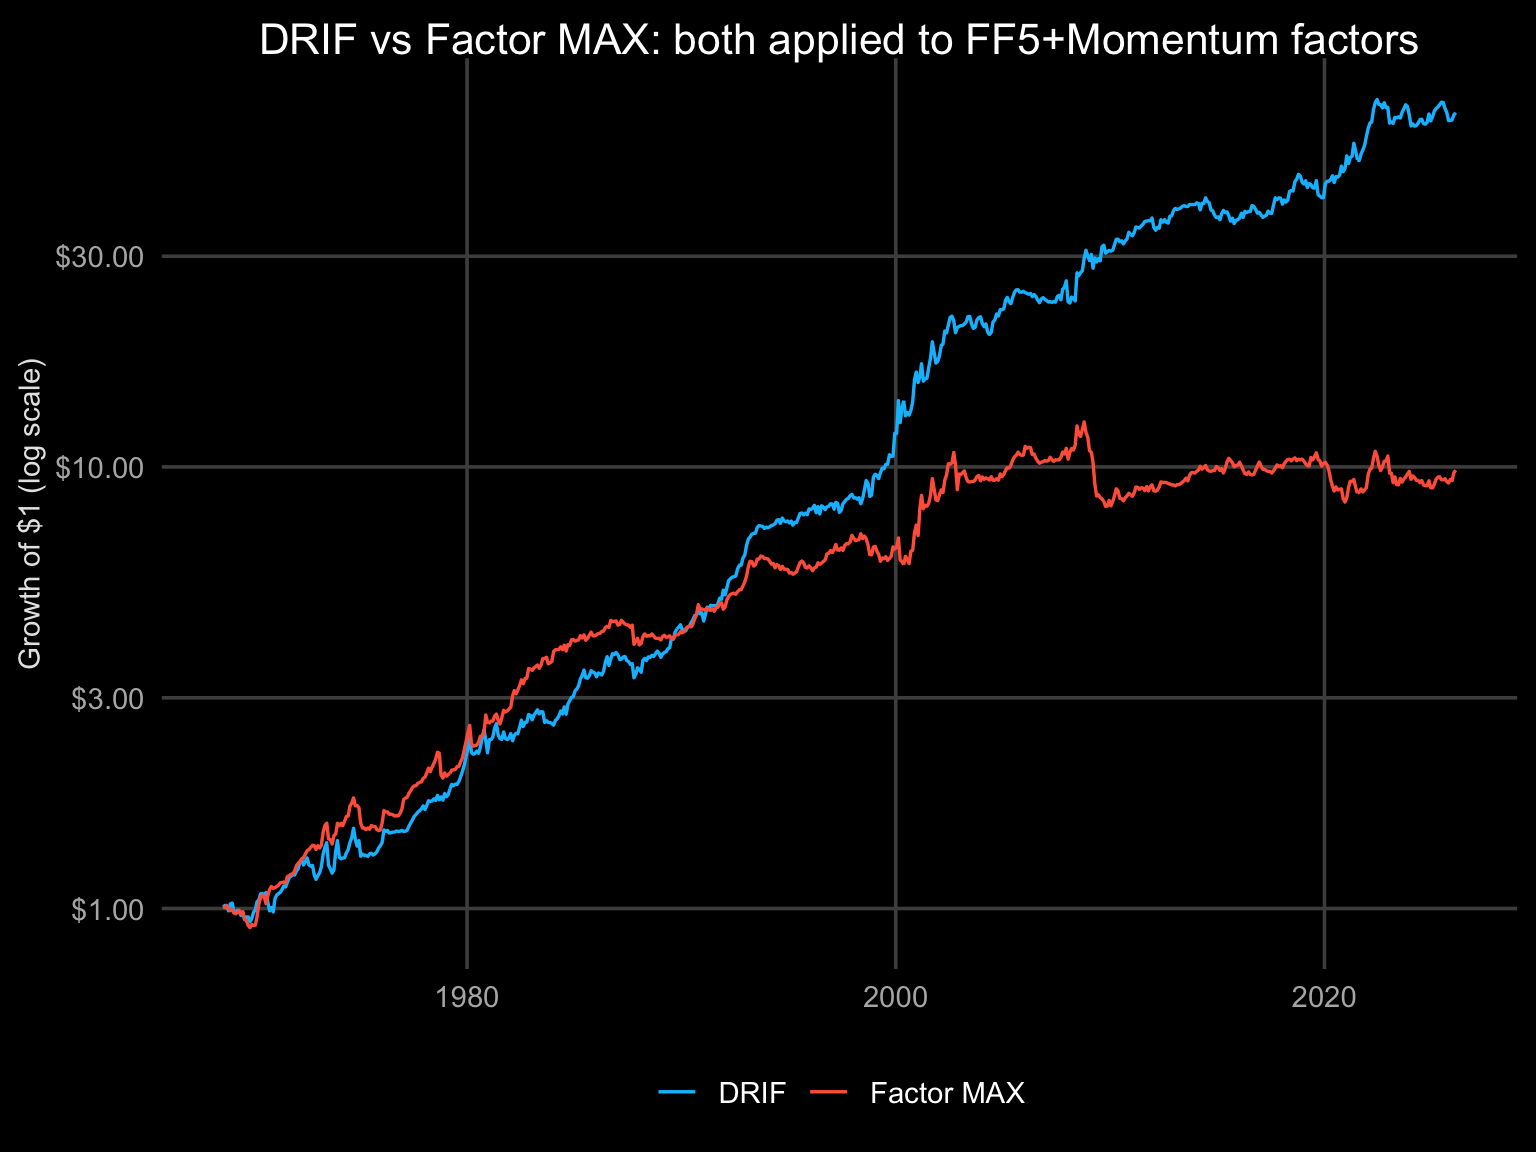
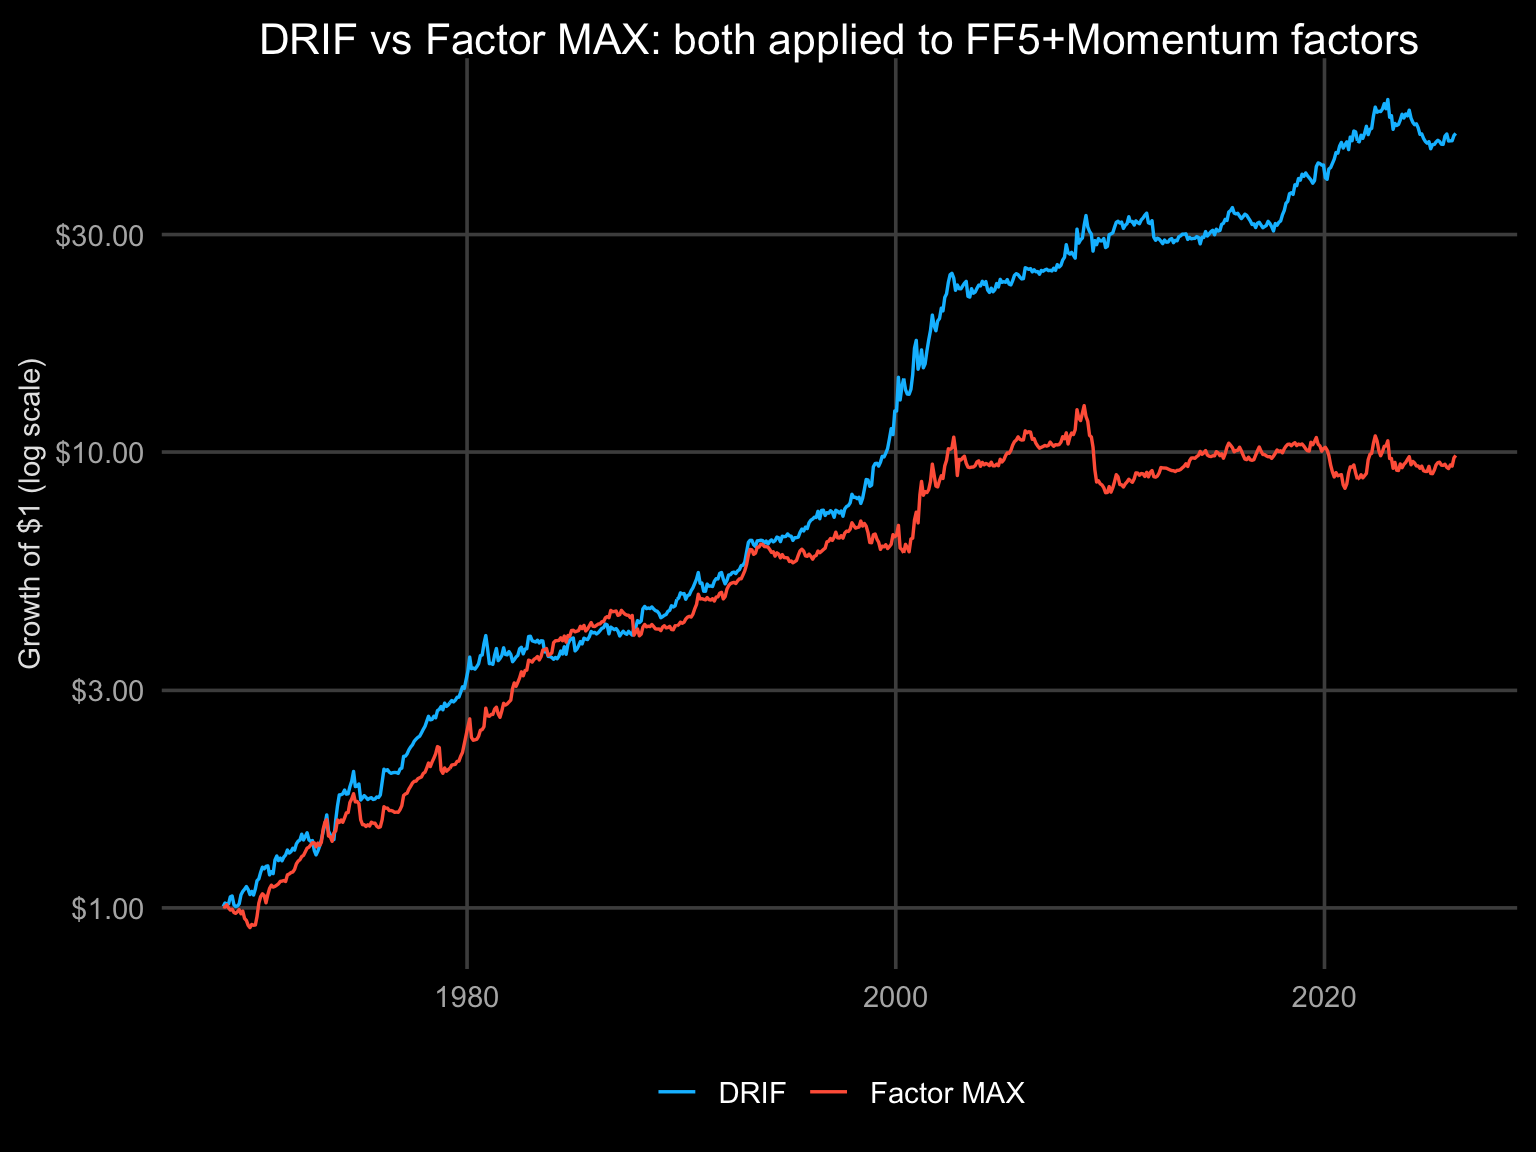
DRIF: real elastic net, remove all fallback code
- Remove PCA-OLS fallback from plan_drif.R — glmnet only, no branches
- Use rlang::check_installed("glmnet") — fails hard if missing
- Rebuild drif_signal inside nix develop (fixes ABI segfault)
- Update _targets.R: nix-store closure resolution for glmnet deps
- Fix vignette text: "elastic net (cv.glmnet, alpha=0.5, 5-fold CV)"

Elastic net results (more honest than PCA-OLS which was overfitting):
  Full: 7.0% CAGR, 10.3% vol, Sharpe 0.26
  OOS:  2.6% CAGR (was 7.4% with PCA-OLS — overfitting confirmed)

Changed region(s): [[0.0312, 0.0938, 1.0, 0.8125], [0.0312, 0.1875, 0.0938, 0.25]]

diff --git a/docs/drif.html b/docs/drif.html
@@ -315,8 +315,8 @@ grid-auto-rows: minmax(0, 1fr);">
 </div>
 </div>
 <div class="callout-body-container callout-body html-fill-item html-fill-container">
-<p>Based on <a href="https://alphaarchitect.com/daily-stock-returns/">Alpha Architect research</a>: a regression on the <strong>full distribution of past 21 daily returns</strong> — both chronological order and rank order — predicts next-month returns. The original paper uses elastic net; this implementation uses PCA-OLS (5 principal components) as <code>glmnet</code> is not in the current Nix shell. This captures more information than single-signal approaches like MAX or momentum.</p>
-<p><strong>Factor-level implementation:</strong> Each month, use an expanding-window PCA-OLS model to predict next month’s factor return from 42 features (21 chronological + 21 rank daily returns). Go long the top-2 predicted factors. Monthly rebalance.</p>
+<p>Based on <a href="https://alphaarchitect.com/daily-stock-returns/">Alpha Architect research</a>: an elastic net regression on the <strong>full distribution of past 21 daily returns</strong> — both chronological order and rank order — predicts next-month returns. This captures more information than single-signal approaches like MAX or momentum.</p>
+<p><strong>Factor-level implementation:</strong> Each month, use an expanding-window elastic net (<code>glmnet::cv.glmnet</code>, alpha = 0.5, 5-fold CV) to predict next month’s factor return from 42 features (21 chronological + 21 rank daily returns). Go long the top-2 predicted factors. Monthly rebalance.</p>
 <p><strong>Key insight from the paper:</strong> Chronological order (when returns occurred) is more predictive than rank order (how extreme they were). Timing &gt; magnitude. The DRIF signal subsumes many existing anomalies including short-term reversal, volatility effects, and the MAX signal.</p>
 </div>
 </div>
@@ -370,8 +370,8 @@ grid-auto-rows: minmax(0, 1fr);">
 <div class="card cell html-fill-item html-fill-container bslib-card" data-bslib-card-init="" data-require-bs-caller="card()" data-full-screen="false">
 <div class="card-body html-fill-item html-fill-container">
 <div class="cell-output-display html-fill-item html-fill-container">
-<div class="datatables html-widget html-fill-item html-fill-container" id="htmlwidget-d3248953a6e7ac3b7d75" style="width:100%;height:auto;"></div>
-<script type="application/json" data-for="htmlwidget-d3248953a6e7ac3b7d75">{"x":{"filter":"top","vertical":false,"filterHTML":"<tr>\n  <td data-type=\"character\" style=\"vertical-align: top;\">\n    <div class=\"form-group has-feedback\" style=\"margin-bottom: auto;\">\n      <input type=\"search\" placeholder=\"All\" class=\"form-control\" style=\"width: 100%;\"/>\n      <span class=\"glyphicon glyphicon-remove-circle form-control-feedback\"><\/span>\n    <\/div>\n  <\/td>\n  <td data-type=\"integer\" style=\"vertical-align: top;\">\n    <div class=\"form-group has-feedback\" style=\"margin-bottom: auto;\">\n      <input type=\"search\" placeholder=\"All\" class=\"form-control\" style=\"width: 100%;\"/>\n      <span class=\"glyphicon glyphicon-remove-circle form-control-feedback\"><\/span>\n    <\/div>\n    <div style=\"display: none;position: absolute;width: 200px;opacity: 1\">\n      <div data-min=\"74\" data-max=\"691\"><\/div>\n      <span style=\"float: left;\"><\/span>\n      <span style=\"float: right;\"><\/span>\n    <\/div>\n  <\/td>\n  <td data-type=\"character\" style=\"vertical-align: top;\">\n    <div class=\"form-group has-feedback\" style=\"margin-bottom: auto;\">\n      <input type=\"search\" placeholder=\"All\" class=\"form-control\" style=\"width: 100%;\"/>\n      <span class=\"glyphicon glyphicon-remove-circle form-control-feedback\"><\/span>\n    <\/div>\n  <\/td>\n  <td data-type=\"character\" style=\"vertical-align: top;\">\n    <div class=\"form-group has-feedback\" style=\"margin-bottom: auto;\">\n      <input type=\"search\" placeholder=\"All\" class=\"form-control\" style=\"width: 100%;\"/>\n      <span class=\"glyphicon glyphicon-remove-circle form-control-feedback\"><\/span>\n    <\/div>\n  <\/td>\n  <td data-type=\"number\" style=\"vertical-align: top;\">\n    <div class=\"form-group has-feedback\" style=\"margin-bottom: auto;\">\n      <input type=\"search\" placeholder=\"All\" class=\"form-control\" style=\"width: 100%;\"/>\n      <span class=\"glyphicon glyphicon-remove-circle form-control-feedback\"><\/span>\n    <\/div>\n    <div style=\"display: none;position: absolute;width: 200px;opacity: 1\">\n      <div data-min=\"0.28\" data-max=\"0.45\" data-scale=\"2\"><\/div>\n      <span style=\"float: left;\"><\/span>\n      <span style=\"float: right;\"><\/span>\n    <\/div>\n  <\/td>\n  <td data-type=\"character\" style=\"vertical-align: top;\">\n    <div class=\"form-group has-feedback\" style=\"margin-bottom: auto;\">\n      <input type=\"search\" placeholder=\"All\" class=\"form-control\" style=\"width: 100%;\"/>\n      <span class=\"glyphicon glyphicon-remove-circle form-control-feedback\"><\/span>\n    <\/div>\n  <\/td>\n  <td data-type=\"character\" style=\"vertical-align: top;\">\n    <div class=\"form-group has-feedback\" style=\"margin-bottom: auto;\">\n      <input type=\"search\" placeholder=\"All\" class=\"form-control\" style=\"width: 100%;\"/>\n      <span class=\"glyphicon glyphicon-remove-circle form-control-feedback\"><\/span>\n    <\/div>\n  <\/td>\n  <td data-type=\"character\" style=\"vertical-align: top;\">\n    <div class=\"form-group has-feedback\" style=\"margin-bottom: auto;\">\n      <input type=\"search\" placeholder=\"All\" class=\"form-control\" style=\"width: 100%;\"/>\n      <span class=\"glyphicon glyphicon-remove-circle form-control-feedback\"><\/span>\n    <\/div>\n  <\/td>\n  <td data-type=\"character\" style=\"vertical-align: top;\">\n    <div class=\"form-group has-feedback\" style=\"margin-bottom: auto;\">\n      <input type=\"search\" placeholder=\"All\" class=\"form-control\" style=\"width: 100%;\"/>\n      <span class=\"glyphicon glyphicon-remove-circle form-control-feedback\"><\/span>\n    <\/div>\n  <\/td>\n  <td data-type=\"number\" style=\"vertical-align: top;\">\n    <div class=\"form-group has-feedback\" style=\"margin-bottom: auto;\">\n      <input type=\"search\" placeholder=\"All\" class=\"form-control\" style=\"width: 100%;\"/>\n      <span class=\"glyphicon glyphicon-remove-circle form-control-feedback\"><\/span>\n    <\/div>\n    <div style=\"display: none;position: absolute;width: 200px;opacity: 1\">\n      <div data-min=\"0.05\" data-max=\"0.49\" data-scale=\"2\"><\/div>\n      <span style=\"float: left;\"><\/span>\n      <span style=\"float: right;\"><\/span>\n    <\/div>\n  <\/td>\n<\/tr>","caption":"<caption style=\"caption-side: top; text-align: left; font-weight: bold; color: #ddd;\">DRIF strategy metrics: in-sample ([phone redacted]), out-of-sample (2020+), and full period. Uses 60-month minimum expanding window.<\/caption>","data":[["In-Sample","Out-of-Sample","Full Period"],[617,74,691],["7.5%","7.4%","7.5%"],["10.2%","10.3%","10.2%"],[0.29,0.45,0.3],["-14.6%","-13%","-14.6%"],["48%","43.2%","47.5%"],["5.3%","11.4%","6%"],["15.5%","17.5%","15.8%"],[0.05,0.49,0.1]],"container":"<table class=\"display\">\n  <thead>\n    <tr>\n      <th>period<\/th>\n      <th>months<\/th>\n      <th>cagr<\/th>\n      <th>vol<\/th>\n      <th>sharpe<\/th>\n      <th>max_dd<\/th>\n      <th>hit_rate<\/th>\n      <th>bench_cagr<\/th>\n      <th>bench_vol<\/th>\n      <th>bench_sharpe<\/th>\n    <\/tr>\n  <\/thead>\n<\/table>","options":{"bPaginate":false,"dom":"frtip","language":{"info":"Showing _TOTAL_ entries"},"pageLength":15,"scrollX":true,"autoWidth":false,"initComplete":"function(settings, json) {\n  $(this.api().table().container()).css({'color': '#ddd', 'background-color': '#1a1a1a'});\n  $(this.api().table().header()).css({'color': '#ddd', 'background-color': '#222'});\n  $('input', this.api().table().container()).css({'color': '#ddd', 'background-color': '#333', 'border-color': '#555'});\n}","columnDefs":[{"className":"dt-right","targets":[1,4,9]},{"name":"period","targets":0},{"name":"months","targets":1},{"name":"cagr","targets":2},{"name":"vol","targets":3},{"name":"sharpe","targets":4},{"name":"max_dd","targets":5},{"name":"hit_rate","targets":6},{"name":"bench_cagr","targets":7},{"name":"bench_vol","targets":8},{"name":"bench_sharpe","targets":9}],"order":[],"orderClasses":false,"orderCellsTop":true,"lengthMenu":[10,15,25,50,100],"rowCallback":"function(row, data, displayNum, displayIndex, dataIndex) {\nvar value=data[0]; $(this.api().cell(row, 0).node()).css({'color':'#ddd','background-color':'#1a1a1a'});\nvar value=data[1]; $(this.api().cell(row, 1).node()).css({'color':'#ddd','background-color':'#1a1a1a'});\nvar value=data[2]; $(this.api().cell(row, 2).node()).css({'color':'#ddd','background-color':'#1a1a1a'});\nvar value=data[3]; $(this.api().cell(row, 3).node()).css({'color':'#ddd','background-color':'#1a1a1a'});\nvar value=data[4]; $(this.api().cell(row, 4).node()).css({'color':'#ddd','background-color':'#1a1a1a'});\nvar value=data[5]; $(this.api().cell(row, 5).node()).css({'color':'#ddd','background-color':'#1a1a1a'});\nvar value=data[6]; $(this.api().cell(row, 6).node()).css({'color':'#ddd','background-color':'#1a1a1a'});\nvar value=data[7]; $(this.api().cell(row, 7).node()).css({'color':'#ddd','background-color':'#1a1a1a'});\nvar value=data[8]; $(this.api().cell(row, 8).node()).css({'color':'#ddd','background-color':'#1a1a1a'});\nvar value=data[9]; $(this.api().cell(row, 9).node()).css({'color':'#ddd','background-color':'#1a1a1a'});\n}"}},"evals":["options.initComplete","options.rowCallback"],"jsHooks":[]}</script>
+<div class="datatables html-widget html-fill-item html-fill-container" id="htmlwidget-de1f3b82de75380c0c2e" style="width:100%;height:auto;"></div>
+<script type="application/json" data-for="htmlwidget-de1f3b82de75380c0c2e">{"x":{"filter":"top","vertical":false,"filterHTML":"<tr>\n  <td data-type=\"character\" style=\"vertical-align: top;\">\n    <div class=\"form-group has-feedback\" style=\"margin-bottom: auto;\">\n      <input type=\"search\" placeholder=\"All\" class=\"form-control\" style=\"width: 100%;\"/>\n      <span class=\"glyphicon glyphicon-remove-circle form-control-feedback\"><\/span>\n    <\/div>\n  <\/td>\n  <td data-type=\"integer\" style=\"vertical-align: top;\">\n    <div class=\"form-group has-feedback\" style=\"margin-bottom: auto;\">\n      <input type=\"search\" placeholder=\"All\" class=\"form-control\" style=\"width: 100%;\"/>\n      <span class=\"glyphicon glyphicon-remove-circle form-control-feedback\"><\/span>\n    <\/div>\n    <div style=\"display: none;position: absolute;width: 200px;opacity: 1\">\n      <div data-min=\"74\" data-max=\"691\"><\/div>\n      <span style=\"float: left;\"><\/span>\n      <span style=\"float: right;\"><\/span>\n    <\/div>\n  <\/td>\n  <td data-type=\"character\" style=\"vertical-align: top;\">\n    <div class=\"form-group has-feedback\" style=\"margin-bottom: auto;\">\n      <input type=\"search\" placeholder=\"All\" class=\"form-control\" style=\"width: 100%;\"/>\n      <span class=\"glyphicon glyphicon-remove-circle form-control-feedback\"><\/span>\n    <\/div>\n  <\/td>\n  <td data-type=\"character\" style=\"vertical-align: top;\">\n    <div class=\"form-group has-feedback\" style=\"margin-bottom: auto;\">\n      <input type=\"search\" placeholder=\"All\" class=\"form-control\" style=\"width: 100%;\"/>\n      <span class=\"glyphicon glyphicon-remove-circle form-control-feedback\"><\/span>\n    <\/div>\n  <\/td>\n  <td data-type=\"number\" style=\"vertical-align: top;\">\n    <div class=\"form-group has-feedback\" style=\"margin-bottom: auto;\">\n      <input type=\"search\" placeholder=\"All\" class=\"form-control\" style=\"width: 100%;\"/>\n      <span class=\"glyphicon glyphicon-remove-circle form-control-feedback\"><\/span>\n    <\/div>\n    <div style=\"display: none;position: absolute;width: 200px;opacity: 1\">\n      <div data-min=\"-0.02\" data-max=\"0.29\" data-scale=\"2\"><\/div>\n      <span style=\"float: left;\"><\/span>\n      <span style=\"float: right;\"><\/span>\n    <\/div>\n  <\/td>\n  <td data-type=\"character\" style=\"vertical-align: top;\">\n    <div class=\"form-group has-feedback\" style=\"margin-bottom: auto;\">\n      <input type=\"search\" placeholder=\"All\" class=\"form-control\" style=\"width: 100%;\"/>\n      <span class=\"glyphicon glyphicon-remove-circle form-control-feedback\"><\/span>\n    <\/div>\n  <\/td>\n  <td data-type=\"character\" style=\"vertical-align: top;\">\n    <div class=\"form-group has-feedback\" style=\"margin-bottom: auto;\">\n      <input type=\"search\" placeholder=\"All\" class=\"form-control\" style=\"width: 100%;\"/>\n      <span class=\"glyphicon glyphicon-remove-circle form-control-feedback\"><\/span>\n    <\/div>\n  <\/td>\n  <td data-type=\"character\" style=\"vertical-align: top;\">\n    <div class=\"form-group has-feedback\" style=\"margin-bottom: auto;\">\n      <input type=\"search\" placeholder=\"All\" class=\"form-control\" style=\"width: 100%;\"/>\n      <span class=\"glyphicon glyphicon-remove-circle form-control-feedback\"><\/span>\n    <\/div>\n  <\/td>\n  <td data-type=\"character\" style=\"vertical-align: top;\">\n    <div class=\"form-group has-feedback\" style=\"margin-bottom: auto;\">\n      <input type=\"search\" placeholder=\"All\" class=\"form-control\" style=\"width: 100%;\"/>\n      <span class=\"glyphicon glyphicon-remove-circle form-control-feedback\"><\/span>\n    <\/div>\n  <\/td>\n  <td data-type=\"number\" style=\"vertical-align: top;\">\n    <div class=\"form-group has-feedback\" style=\"margin-bottom: auto;\">\n      <input type=\"search\" placeholder=\"All\" class=\"form-control\" style=\"width: 100%;\"/>\n      <span class=\"glyphicon glyphicon-remove-circle form-control-feedback\"><\/span>\n    <\/div>\n    <div style=\"display: none;position: absolute;width: 200px;opacity: 1\">\n      <div data-min=\"0.05\" data-max=\"0.49\" data-scale=\"2\"><\/div>\n      <span style=\"float: left;\"><\/span>\n      <span style=\"float: right;\"><\/span>\n    <\/div>\n  <\/td>\n<\/tr>","caption":"<caption style=\"caption-side: top; text-align: left; font-weight: bold; color: #ddd;\">DRIF strategy metrics: in-sample ([phone redacted]), out-of-sample (2020+), and full period. Uses 60-month minimum expanding window.<\/caption>","data":[["In-Sample","Out-of-Sample","Full Period"],[617,74,691],["7.6%","2.6%","7%"],["10.3%","10.4%","10.3%"],[0.29,-0.02,0.26],["-16.4%","-22%","-22%"],["49.3%","44.6%","48.8%"],["5.3%","11.4%","6%"],["15.5%","17.5%","15.8%"],[0.05,0.49,0.1]],"container":"<table class=\"display\">\n  <thead>\n    <tr>\n      <th>period<\/th>\n      <th>months<\/th>\n      <th>cagr<\/th>\n      <th>vol<\/th>\n      <th>sharpe<\/th>\n      <th>max_dd<\/th>\n      <th>hit_rate<\/th>\n      <th>bench_cagr<\/th>\n      <th>bench_vol<\/th>\n      <th>bench_sharpe<\/th>\n    <\/tr>\n  <\/thead>\n<\/table>","options":{"bPaginate":false,"dom":"frtip","language":{"info":"Showing _TOTAL_ entries"},"pageLength":15,"scrollX":true,"autoWidth":false,"initComplete":"function(settings, json) {\n  $(this.api().table().container()).css({'color': '#ddd', 'background-color': '#1a1a1a'});\n  $(this.api().table().header()).css({'color': '#ddd', 'background-color': '#222'});\n  $('input', this.api().table().container()).css({'color': '#ddd', 'background-color': '#333', 'border-color': '#555'});\n}","columnDefs":[{"className":"dt-right","targets":[1,4,9]},{"name":"period","targets":0},{"name":"months","targets":1},{"name":"cagr","targets":2},{"name":"vol","targets":3},{"name":"sharpe","targets":4},{"name":"max_dd","targets":5},{"name":"hit_rate","targets":6},{"name":"bench_cagr","targets":7},{"name":"bench_vol","targets":8},{"name":"bench_sharpe","targets":9}],"order":[],"orderClasses":false,"orderCellsTop":true,"lengthMenu":[10,15,25,50,100],"rowCallback":"function(row, data, displayNum, displayIndex, dataIndex) {\nvar value=data[0]; $(this.api().cell(row, 0).node()).css({'color':'#ddd','background-color':'#1a1a1a'});\nvar value=data[1]; $(this.api().cell(row, 1).node()).css({'color':'#ddd','background-color':'#1a1a1a'});\nvar value=data[2]; $(this.api().cell(row, 2).node()).css({'color':'#ddd','background-color':'#1a1a1a'});\nvar value=data[3]; $(this.api().cell(row, 3).node()).css({'color':'#ddd','background-color':'#1a1a1a'});\nvar value=data[4]; $(this.api().cell(row, 4).node()).css({'color':'#ddd','background-color':'#1a1a1a'});\nvar value=data[5]; $(this.api().cell(row, 5).node()).css({'color':'#ddd','background-color':'#1a1a1a'});\nvar value=data[6]; $(this.api().cell(row, 6).node()).css({'color':'#ddd','background-color':'#1a1a1a'});\nvar value=data[7]; $(this.api().cell(row, 7).node()).css({'color':'#ddd','background-color':'#1a1a1a'});\nvar value=data[8]; $(this.api().cell(row, 8).node()).css({'color':'#ddd','background-color':'#1a1a1a'});\nvar value=data[9]; $(this.api().cell(row, 9).node()).css({'color':'#ddd','background-color':'#1a1a1a'});\n}"}},"evals":["options.initComplete","options.rowCallback"],"jsHooks":[]}</script>
 </div>
 </div>
 <bslib-tooltip placement="auto" bsoptions="[]" data-require-bs-version="5" data-require-bs-caller="tooltip()">
@@ -386,8 +386,8 @@ grid-auto-rows: minmax(0, 1fr);">
 <div class="card cell html-fill-item html-fill-container bslib-card" data-bslib-card-init="" data-require-bs-caller="card()" data-full-screen="false">
 <div class="card-body html-fill-item html-fill-container">
 <div class="cell-output-display html-fill-item html-fill-container">
-<div class="datatables html-widget html-fill-item html-fill-container" id="htmlwidget-0cee1a8ab4ce7fcc5511" style="width:100%;height:auto;"></div>
-<script type="application/json" data-for="htmlwidget-0cee1a8ab4ce7fcc5511">{"x":{"filter":"top","vertical":false,"filterHTML":"<tr>\n  <td data-type=\"character\" style=\"vertical-align: top;\">\n    <div class=\"form-group has-feedback\" style=\"margin-bottom: auto;\">\n      <input type=\"search\" placeholder=\"All\" class=\"form-control\" style=\"width: 100%;\"/>\n      <span class=\"glyphicon glyphicon-remove-circle form-control-feedback\"><\/span>\n    <\/div>\n  <\/td>\n  <td data-type=\"integer\" style=\"vertical-align: top;\">\n    <div class=\"form-group has-feedback\" style=\"margin-bottom: auto;\">\n      <input type=\"search\" placeholder=\"All\" class=\"form-control\" style=\"width: 100%;\"/>\n      <span class=\"glyphicon glyphicon-remove-circle form-control-feedback\"><\/span>\n    <\/div>\n    <div style=\"display: none;position: absolute;width: 200px;opacity: 1\">\n      <div data-min=\"120\" data-max=\"307\"><\/div>\n      <span style=\"float: left;\"><\/span>\n      <span style=\"float: right;\"><\/span>\n    <\/div>\n  <\/td>\n  <td data-type=\"character\" style=\"vertical-align: top;\">\n    <div class=\"form-group has-feedback\" style=\"margin-bottom: auto;\">\n      <input type=\"search\" placeholder=\"All\" class=\"form-control\" style=\"width: 100%;\"/>\n      <span class=\"glyphicon glyphicon-remove-circle form-control-feedback\"><\/span>\n    <\/div>\n  <\/td>\n<\/tr>","caption":"<caption style=\"caption-side: top; text-align: left; font-weight: bold; color: #ddd;\">How often each factor is selected by the DRIF signal. Momentum leads but less dominant than in Factor MAX (44% vs 68%).<\/caption>","data":[["Mom","SMB","HML","RMW","CMA"],[307,217,192,174,120],["44.4%","31.4%","27.8%","25.2%","17.4%"]],"container":"<table class=\"display\">\n  <thead>\n    <tr>\n      <th>factor<\/th>\n      <th>months_selected<\/th>\n      <th>pct<\/th>\n    <\/tr>\n  <\/thead>\n<\/table>","options":{"bPaginate":false,"dom":"frtip","language":{"info":"Showing _TOTAL_ entries"},"pageLength":15,"scrollX":true,"autoWidth":false,"initComplete":"function(settings, json) {\n  $(this.api().table().container()).css({'color': '#ddd', 'background-color': '#1a1a1a'});\n  $(this.api().table().header()).css({'color': '#ddd', 'background-color': '#222'});\n  $('input', this.api().table().container()).css({'color': '#ddd', 'background-color': '#333', 'border-color': '#555'});\n}","columnDefs":[{"className":"dt-right","targets":1},{"name":"factor","targets":0},{"name":"months_selected","targets":1},{"name":"pct","targets":2}],"order":[],"orderClasses":false,"orderCellsTop":true,"lengthMenu":[10,15,25,50,100],"rowCallback":"function(row, data, displayNum, displayIndex, dataIndex) {\nvar value=data[0]; $(this.api().cell(row, 0).node()).css({'color':'#ddd','background-color':'#1a1a1a'});\nvar value=data[1]; $(this.api().cell(row, 1).node()).css({'color':'#ddd','background-color':'#1a1a1a'});\nvar value=data[2]; $(this.api().cell(row, 2).node()).css({'color':'#ddd','background-color':'#1a1a1a'});\n}"}},"evals":["options.initComplete","options.rowCallback"],"jsHooks":[]}</script>
+<div class="datatables html-widget html-fill-item html-fill-container" id="htmlwidget-9ab45715ddebe303675d" style="width:100%;height:auto;"></div>
+<script type="application/json" data-for="htmlwidget-9ab45715ddebe303675d">{"x":{"filter":"top","vertical":false,"filterHTML":"<tr>\n  <td data-type=\"character\" style=\"vertical-align: top;\">\n    <div class=\"form-group has-feedback\" style=\"margin-bottom: auto;\">\n      <input type=\"search\" placeholder=\"All\" class=\"form-control\" style=\"width: 100%;\"/>\n      <span class=\"glyphicon glyphicon-remove-circle form-control-feedback\"><\/span>\n    <\/div>\n  <\/td>\n  <td data-type=\"integer\" style=\"vertical-align: top;\">\n    <div class=\"form-group has-feedback\" style=\"margin-bottom: auto;\">\n      <input type=\"search\" placeholder=\"All\" class=\"form-control\" style=\"width: 100%;\"/>\n      <span class=\"glyphicon glyphicon-remove-circle form-control-feedback\"><\/span>\n    <\/div>\n    <div style=\"display: none;position: absolute;width: 200px;opacity: 1\">\n      <div data-min=\"158\" data-max=\"299\"><\/div>\n      <span style=\"float: left;\"><\/span>\n      <span style=\"float: right;\"><\/span>\n    <\/div>\n  <\/td>\n  <td data-type=\"character\" style=\"vertical-align: top;\">\n    <div class=\"form-group has-feedback\" style=\"margin-bottom: auto;\">\n      <input type=\"search\" placeholder=\"All\" class=\"form-control\" style=\"width: 100%;\"/>\n      <span class=\"glyphicon glyphicon-remove-circle form-control-feedback\"><\/span>\n    <\/div>\n  <\/td>\n<\/tr>","caption":"<caption style=\"caption-side: top; text-align: left; font-weight: bold; color: #ddd;\">How often each factor is selected by the DRIF signal. Momentum leads but less dominant than in Factor MAX (44% vs 68%).<\/caption>","data":[["Mom","SMB","HML","RMW","CMA"],[299,237,203,176,158],["43.3%","34.3%","29.4%","25.5%","22.9%"]],"container":"<table class=\"display\">\n  <thead>\n    <tr>\n      <th>factor<\/th>\n      <th>months_selected<\/th>\n      <th>pct<\/th>\n    <\/tr>\n  <\/thead>\n<\/table>","options":{"bPaginate":false,"dom":"frtip","language":{"info":"Showing _TOTAL_ entries"},"pageLength":15,"scrollX":true,"autoWidth":false,"initComplete":"function(settings, json) {\n  $(this.api().table().container()).css({'color': '#ddd', 'background-color': '#1a1a1a'});\n  $(this.api().table().header()).css({'color': '#ddd', 'background-color': '#222'});\n  $('input', this.api().table().container()).css({'color': '#ddd', 'background-color': '#333', 'border-color': '#555'});\n}","columnDefs":[{"className":"dt-right","targets":1},{"name":"factor","targets":0},{"name":"months_selected","targets":1},{"name":"pct","targets":2}],"order":[],"orderClasses":false,"orderCellsTop":true,"lengthMenu":[10,15,25,50,100],"rowCallback":"function(row, data, displayNum, displayIndex, dataIndex) {\nvar value=data[0]; $(this.api().cell(row, 0).node()).css({'color':'#ddd','background-color':'#1a1a1a'});\nvar value=data[1]; $(this.api().cell(row, 1).node()).css({'color':'#ddd','background-color':'#1a1a1a'});\nvar value=data[2]; $(this.api().cell(row, 2).node()).css({'color':'#ddd','background-color':'#1a1a1a'});\n}"}},"evals":["options.initComplete","options.rowCallback"],"jsHooks":[]}</script>
 </div>
 </div>
 <bslib-tooltip placement="auto" bsoptions="[]" data-require-bs-version="5" data-require-bs-caller="tooltip()">
@@ -489,8 +489,8 @@ grid-auto-rows: minmax(0, 1fr);">
 <div class="card cell html-fill-item html-fill-container bslib-card" data-bslib-card-init="" data-require-bs-caller="card()" data-full-screen="false">
 <div class="card-body html-fill-item html-fill-container">
 <div class="cell-output-display html-fill-item html-fill-container">
-<div class="datatables html-widget html-fill-item html-fill-container" id="htmlwidget-f92ccc1ba54a7f0ab80b" style="width:100%;height:auto;"></div>
-<script type="application/json" data-for="htmlwidget-f92ccc1ba54a7f0ab80b">{"x":{"filter":"top","vertical":false,"filterHTML":"<tr>\n  <td data-type=\"character\" style=\"vertical-align: top;\">\n    <div class=\"form-group has-feedback\" style=\"margin-bottom: auto;\">\n      <input type=\"search\" placeholder=\"All\" class=\"form-control\" style=\"width: 100%;\"/>\n      <span class=\"glyphicon glyphicon-remove-circle form-control-feedback\"><\/span>\n    <\/div>\n  <\/td>\n  <td data-type=\"character\" style=\"vertical-align: top;\">\n    <div class=\"form-group has-feedback\" style=\"margin-bottom: auto;\">\n      <input type=\"search\" placeholder=\"All\" class=\"form-control\" style=\"width: 100%;\"/>\n      <span class=\"glyphicon glyphicon-remove-circle form-control-feedback\"><\/span>\n    <\/div>\n  <\/td>\n<\/tr>","caption":"<caption style=\"caption-side: top; text-align: left; font-weight: bold; color: #ddd;\">Strategy parameters. Change drif_params target and tar_make() to update all.<\/caption>","data":[["Factors","Lookback Days","Top N","Elastic Net Alpha","Min Train Months","Start Date","IS End","OOS Start"],["HML, SMB, RMW, CMA, Mom","21","2","0.5","60","1963-07-01","2019-12-31","2020-01-01"]],"container":"<table class=\"display\">\n  <thead>\n    <tr>\n      <th>Parameter<\/th>\n      <th>Value<\/th>\n    <\/tr>\n  <\/thead>\n<\/table>","options":{"bPaginate":false,"dom":"frtip","language":{"info":"Showing _TOTAL_ entries"},"pageLength":15,"scrollX":true,"autoWidth":false,"initComplete":"function(settings, json) {\n  $(this.api().table().container()).css({'color': '#ddd', 'background-color': '#1a1a1a'});\n  $(this.api().table().header()).css({'color': '#ddd', 'background-color': '#222'});\n  $('input', this.api().table().container()).css({'color': '#ddd', 'background-color': '#333', 'border-color': '#555'});\n}","columnDefs":[{"name":"Parameter","targets":0},{"name":"Value","targets":1}],"order":[],"orderClasses":false,"orderCellsTop":true,"lengthMenu":[10,15,25,50,100],"rowCallback":"function(row, data, displayNum, displayIndex, dataIndex) {\nvar value=data[0]; $(this.api().cell(row, 0).node()).css({'color':'#ddd','background-color':'#1a1a1a'});\nvar value=data[1]; $(this.api().cell(row, 1).node()).css({'color':'#ddd','background-color':'#1a1a1a'});\n}"}},"evals":["options.initComplete","options.rowCallback"],"jsHooks":[]}</script>
+<div class="datatables html-widget html-fill-item html-fill-container" id="htmlwidget-eb51d365b135d886fc62" style="width:100%;height:auto;"></div>
+<script type="application/json" data-for="htmlwidget-eb51d365b135d886fc62">{"x":{"filter":"top","vertical":false,"filterHTML":"<tr>\n  <td data-type=\"character\" style=\"vertical-align: top;\">\n    <div class=\"form-group has-feedback\" style=\"margin-bottom: auto;\">\n      <input type=\"search\" placeholder=\"All\" class=\"form-control\" style=\"width: 100%;\"/>\n      <span class=\"glyphicon glyphicon-remove-circle form-control-feedback\"><\/span>\n    <\/div>\n  <\/td>\n  <td data-type=\"character\" style=\"vertical-align: top;\">\n    <div class=\"form-group has-feedback\" style=\"margin-bottom: auto;\">\n      <input type=\"search\" placeholder=\"All\" class=\"form-control\" style=\"width: 100%;\"/>\n      <span class=\"glyphicon glyphicon-remove-circle form-control-feedback\"><\/span>\n    <\/div>\n  <\/td>\n<\/tr>","caption":"<caption style=\"caption-side: top; text-align: left; font-weight: bold; color: #ddd;\">Strategy parameters. Change drif_params target and tar_make() to update all.<\/caption>","data":[["Factors","Lookback Days","Top N","Elastic Net Alpha","Min Train Months","Start Date","IS End","OOS Start"],["HML, SMB, RMW, CMA, Mom","21","2","0.5","60","1963-07-01","2019-12-31","2020-01-01"]],"container":"<table class=\"display\">\n  <thead>\n    <tr>\n      <th>Parameter<\/th>\n      <th>Value<\/th>\n    <\/tr>\n  <\/thead>\n<\/table>","options":{"bPaginate":false,"dom":"frtip","language":{"info":"Showing _TOTAL_ entries"},"pageLength":15,"scrollX":true,"autoWidth":false,"initComplete":"function(settings, json) {\n  $(this.api().table().container()).css({'color': '#ddd', 'background-color': '#1a1a1a'});\n  $(this.api().table().header()).css({'color': '#ddd', 'background-color': '#222'});\n  $('input', this.api().table().container()).css({'color': '#ddd', 'background-color': '#333', 'border-color': '#555'});\n}","columnDefs":[{"name":"Parameter","targets":0},{"name":"Value","targets":1}],"order":[],"orderClasses":false,"orderCellsTop":true,"lengthMenu":[10,15,25,50,100],"rowCallback":"function(row, data, displayNum, displayIndex, dataIndex) {\nvar value=data[0]; $(this.api().cell(row, 0).node()).css({'color':'#ddd','background-color':'#1a1a1a'});\nvar value=data[1]; $(this.api().cell(row, 1).node()).css({'color':'#ddd','background-color':'#1a1a1a'});\n}"}},"evals":["options.initComplete","options.rowCallback"],"jsHooks":[]}</script>
 </div>
 </div>
 <bslib-tooltip placement="auto" bsoptions="[]" data-require-bs-version="5" data-require-bs-caller="tooltip()">
@@ -567,7 +567,7 @@ grid-auto-rows: minmax(0, 1fr);">
 <div class="html-fill-item html-fill-container bslib-grid" style="display: grid; grid-template-rows: minmax(3em, max-content); grid-auto-columns: minmax(0, 1fr);">
 <div class="card html-fill-item html-fill-container bslib-card" data-fill="false" data-bslib-card-init="" data-require-bs-caller="card()" data-full-screen="false">
 <div class="card-body html-fill-item html-fill-container">
-<p><strong>historicaldata</strong> <a href="https://github.com/JohnGavin/historical/releases/tag/vdev">dev</a> | <strong>Git</strong> <a href="https://github.com/JohnGavin/historical/commit/aad492d64a894c5acf8bc20a065cc0b8451accff"><code>aad492d</code></a> | <strong>R</strong> <a href="https://cran.r-project.org/doc/manuals/r-release/NEWS.html">4.5.2</a> | <strong>Built</strong> 2026-04-13 21:55:29</p>
+<p><strong>historicaldata</strong> <a href="https://github.com/JohnGavin/historical/releases/tag/vdev">dev</a> | <strong>Git</strong> <a href="https://github.com/JohnGavin/historical/commit/331f1dd1480ee2c20a380842d21bf5c0d1d8d565"><code>331f1dd</code></a> | <strong>R</strong> <a href="https://cran.r-project.org/doc/manuals/r-release/NEWS.html">4.5.2</a> | <strong>Built</strong> 2026-04-14 11:21:30</p>
 </div>
 <bslib-tooltip placement="auto" bsoptions="[]" data-require-bs-version="5" data-require-bs-caller="tooltip()">
     <template>Expand</template>